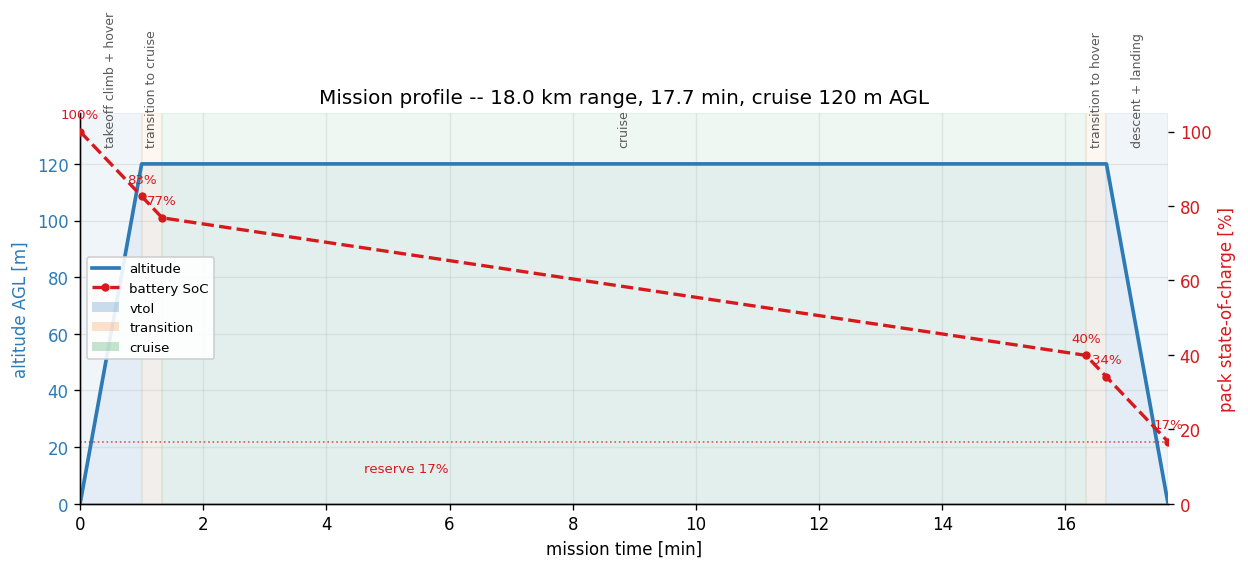
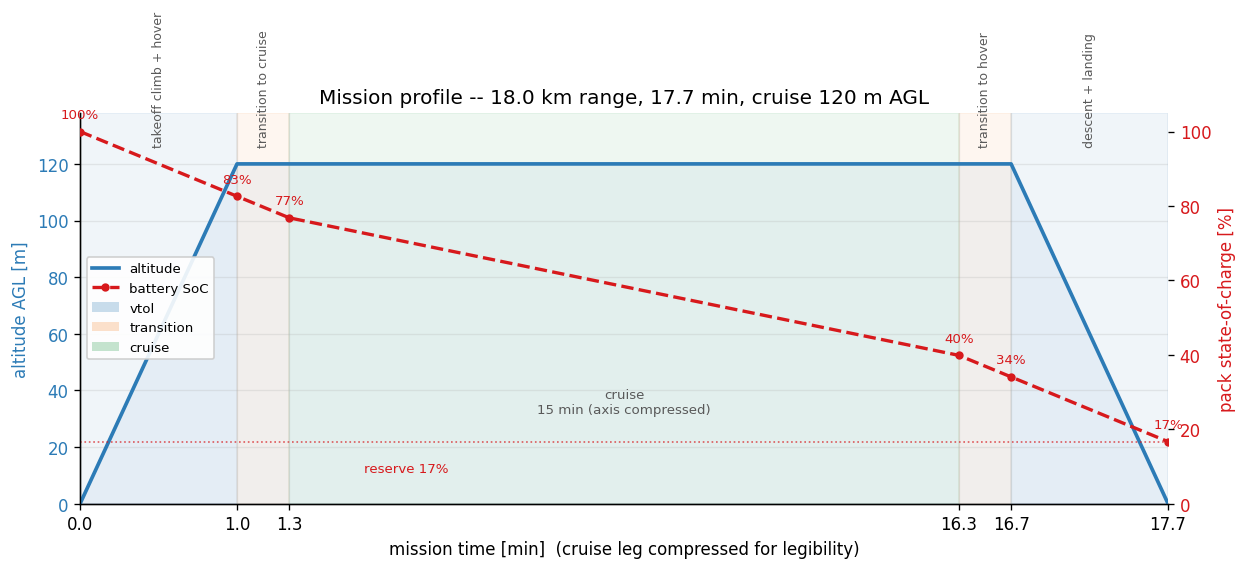
Compress the cruise leg on the mission-profile plot for legibility
At true time scale the 15-minute cruise swamped the ~1-minute vertical
and transition legs. The x-axis now draws the (single) cruise leg at a
fixed multiple of the other legs' total width; every other leg keeps its
real width. Tick labels still report the TRUE elapsed minutes (the
1.3->16.3 min jump makes the compression self-evident), the x-label flags
it, and the cruise band carries an in-band "15 min (axis compressed)"
note. Cosmetic only -- the physics and the SoC track are unchanged.

diff --git a/src/conceptual_design/plots/mission.py b/src/conceptual_design/plots/mission.py
@@ -9,6 +9,31 @@ from ..notebook import PALETTE as C
 #: House-palette colour per leg phase (blue / orange / green).
 _PHASE_FILL = {"vtol": C[0], "transition": C[3], "cruise": C[2]}
 
+#: The cruise leg is drawn this many times the summed width of all the other
+#: legs, so the ~1-minute vertical/transition legs stay legible next to the
+#: 15-minute cruise.  Cosmetic only: the x-axis is a compressed timeline (tick
+#: labels report the TRUE elapsed minutes), never a distortion of the physics.
+_CRUISE_PLOT_RATIO = 1.6
+
+
+def _plot_x_boundaries(legs):
+    """Leg-boundary x positions on the compressed axis, with their true times.
+
+    Every leg keeps its real width except the (single) cruise leg, which is
+    squeezed to ``_CRUISE_PLOT_RATIO`` x the other legs' total.  Returns
+    ``(px, tx)``: plotted-x boundaries [s-equivalent] and the matching true
+    elapsed times [s], both with ``len(legs) + 1`` entries.
+    """
+    noncruise_s = sum(leg.duration_s for leg in legs if leg.phase != "cruise")
+    cruise_plot_s = (_CRUISE_PLOT_RATIO * noncruise_s if noncruise_s > 0
+                     else sum(leg.duration_s for leg in legs))
+    px, tx = [0.0], [0.0]
+    for leg in legs:
+        w = cruise_plot_s if leg.phase == "cruise" else leg.duration_s
+        px.append(px[-1] + w)
+        tx.append(leg.t_end_s)
+    return px, tx
+
 
 def plot_mission_profile(profile, save_path):
     """Altitude-vs-time mission sketch with pack state-of-charge overlaid.
@@ -16,58 +41,66 @@ def plot_mission_profile(profile, save_path):
     Left axis: the flown altitude profile (vertical climb, cruise at
     ``h_cruise``, descent).  Right axis: pack state-of-charge, referenced to the
     sized-with-reserve pack, annotated at every leg boundary.  Legs are shaded
-    by phase so the reader sees at a glance where the energy goes -- the flat
-    cruise dominates the timeline, exactly as the mass closure bills it.
+    by phase.  The x-axis is a *compressed* timeline -- the long cruise leg is
+    squeezed so the short vertical/transition legs stay readable -- with tick
+    labels giving the true elapsed minutes and the cruise band marked as such.
     """
     legs = profile.legs
+    px, tx = _plot_x_boundaries(legs)
+
     fig, ax = plt.subplots(figsize=(10.5, 4.8))
     ax_soc = ax.twinx()
     ax_soc.grid(False)
 
     # -- altitude polyline (left axis) -------------------------------------
-    t_alt = [legs[0].t_start_s / 60.0]
-    h_alt = [legs[0].alt_start_m]
-    for leg in legs:
-        t_alt.append(leg.t_end_s / 60.0)
-        h_alt.append(leg.alt_end_m)
-    ax.plot(t_alt, h_alt, color=C[0], lw=2.2, zorder=5, label="altitude")
-    ax.fill_between(t_alt, h_alt, color=C[0], alpha=0.06, zorder=1)
+    h_alt = [legs[0].alt_start_m] + [leg.alt_end_m for leg in legs]
+    ax.plot(px, h_alt, color=C[0], lw=2.2, zorder=5, label="altitude")
+    ax.fill_between(px, h_alt, color=C[0], alpha=0.06, zorder=1)
 
     # -- state-of-charge polyline (right axis) -----------------------------
-    t_soc = [legs[0].t_start_s / 60.0] + [leg.t_end_s / 60.0 for leg in legs]
-    soc   = [legs[0].soc_start * 100.0] + [leg.soc_end * 100.0 for leg in legs]
-    ax_soc.plot(t_soc, soc, color=C[1], lw=2.0, ls="--", marker="o", ms=4,
+    soc = [legs[0].soc_start * 100.0] + [leg.soc_end * 100.0 for leg in legs]
+    ax_soc.plot(px, soc, color=C[1], lw=2.0, ls="--", marker="o", ms=4,
                 zorder=6, label="battery SoC")
 
     # reserve floor: the pack is sized so the mission ends here
     ax_soc.axhline(profile.reserve_frac * 100.0, color=C[1], lw=1.0, ls=":",
                    alpha=0.7, zorder=2)
     ax_soc.annotate(f"reserve {profile.reserve_frac*100:.0f}%",
-                    (profile.endurance_min * 0.30, profile.reserve_frac * 100.0),
+                    (px[-1] * 0.30, profile.reserve_frac * 100.0),
                     xytext=(0, -12), textcoords="offset points",
                     ha="center", va="top", fontsize=8, color=C[1])
 
     # -- SoC value at each leg boundary ------------------------------------
-    for ti, si in zip(t_soc, soc):
-        ax_soc.annotate(f"{si:.0f}%", (ti, si), xytext=(0, 8),
+    for xi, si in zip(px, soc):
+        ax_soc.annotate(f"{si:.0f}%", (xi, si), xytext=(0, 8),
                         textcoords="offset points", ha="center", fontsize=8,
                         color=C[1])
 
     # -- phase shading + leg labels ----------------------------------------
+    # Narrow legs get a rotated label above the axis; the wide cruise band
+    # gets a horizontal label inside it (with its true duration), so nothing
+    # collides with the title.
     h_top = max(h_alt) if max(h_alt) > 0 else 1.0
-    for leg in legs:
-        ax.axvspan(leg.t_start_s / 60.0, leg.t_end_s / 60.0,
-                   color=_PHASE_FILL[leg.phase], alpha=0.07, zorder=0)
-        ax.annotate(leg.name, ((leg.t_start_s + leg.t_end_s) / 2.0 / 60.0, h_top),
-                    xytext=(0, 10), textcoords="offset points",
-                    ha="center", va="bottom", rotation=90, fontsize=7.5,
-                    color="0.35")
+    for leg, x0, x1 in zip(legs, px[:-1], px[1:]):
+        ax.axvspan(x0, x1, color=_PHASE_FILL[leg.phase], alpha=0.07, zorder=0)
+        xc = (x0 + x1) / 2.0
+        if leg.phase == "cruise":
+            ax.annotate(f"cruise\n{leg.duration_s/60:.0f} min (axis compressed)",
+                        (xc, h_top * 0.30), ha="center", va="center",
+                        fontsize=8, color="0.35")
+        else:
+            ax.annotate(leg.name, (xc, h_top), xytext=(0, 10),
+                        textcoords="offset points", ha="center", va="bottom",
+                        rotation=90, fontsize=7.5, color="0.35")
 
-    ax.set_xlabel("mission time [min]")
+    # -- axis: compressed x, but tick labels carry the TRUE elapsed time ----
+    ax.set_xticks(px)
+    ax.set_xticklabels([f"{t/60:.1f}" for t in tx])
+    ax.set_xlabel("mission time [min]  (cruise leg compressed for legibility)")
     ax.set_ylabel("altitude AGL [m]", color=C[0])
     ax.tick_params(axis="y", labelcolor=C[0])
     ax.set_ylim(0, h_top * 1.15)
-    ax.set_xlim(0, profile.endurance_min)
+    ax.set_xlim(0, px[-1])
 
     ax_soc.set_ylabel("pack state-of-charge [%]", color=C[1])
     ax_soc.tick_params(axis="y", labelcolor=C[1])